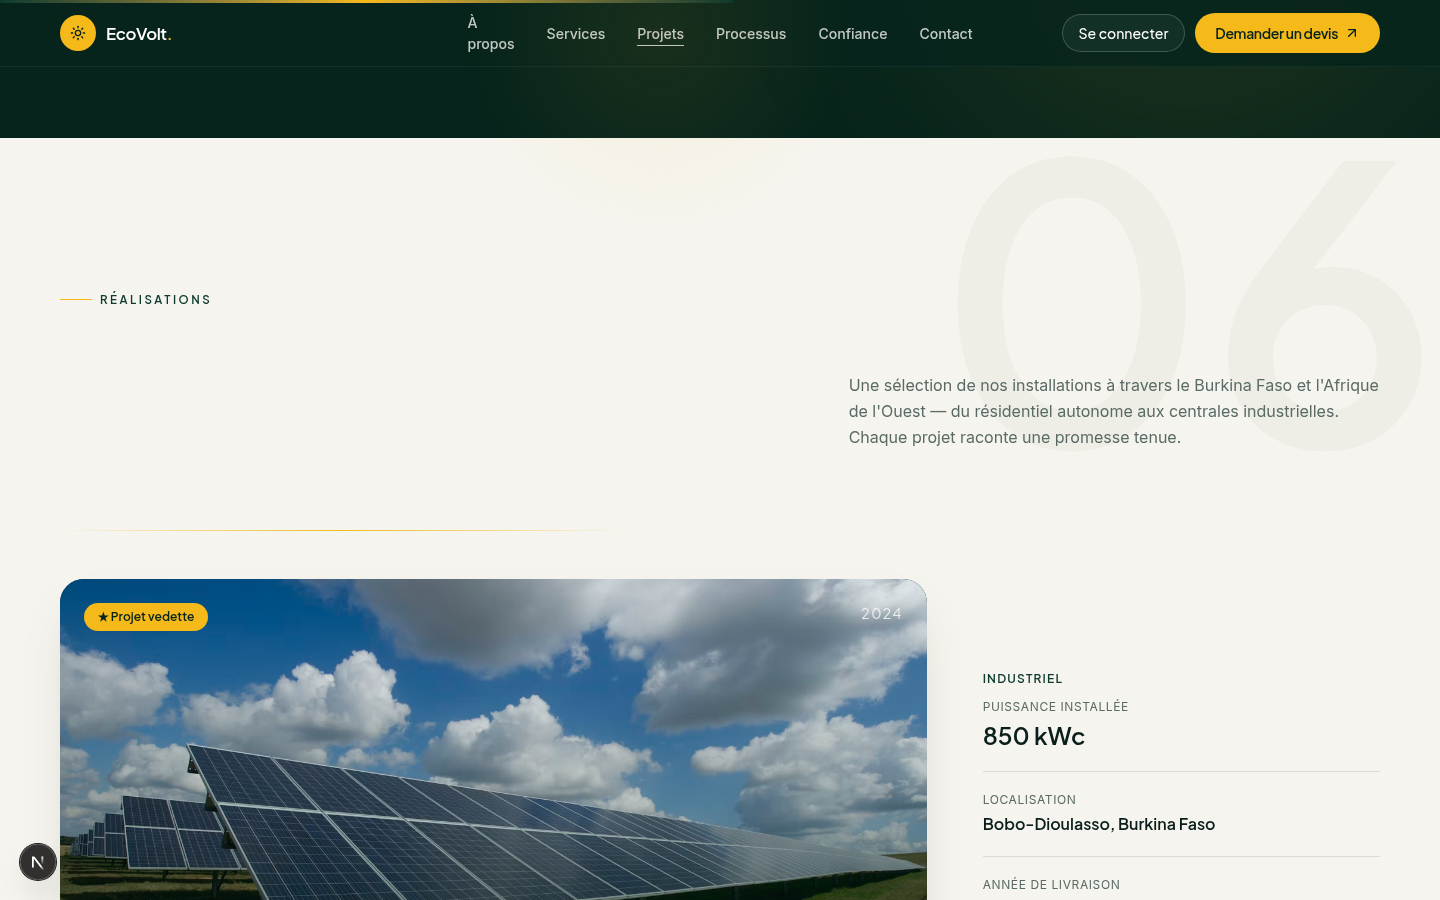
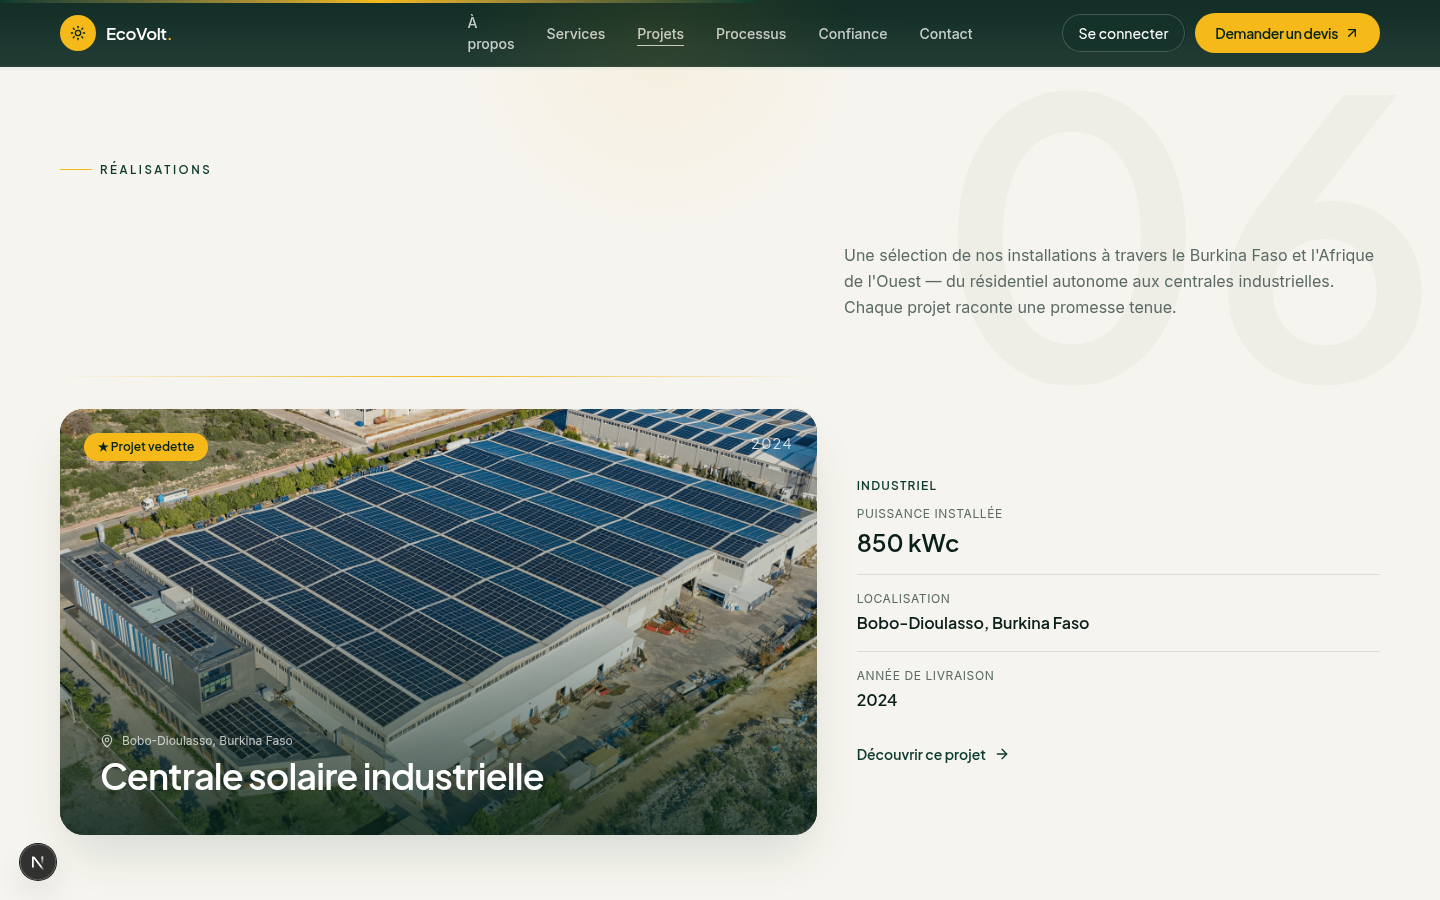
baa70442-70e9-4392-8e4a-528f8b8d5e24

diff --git a/src/components/site/about.tsx b/src/components/site/about.tsx
@@ -374,14 +374,7 @@ export function About() {
             <RevealLine text="Construire l'avenir" delay={0.3} />
             <RevealLine text="énergétique du Burkina" delay={0.4} />
             <RevealLine text="Faso grâce à" delay={0.5} />
-            <RevealLine text="l'" delay={0.6} className="inline" />
-            <RevealLine
-              text="énergie solaire"
-              delay={0.65}
-              className="inline italic font-light"
-              highlight="#D8A928"
-            />
-            <span>.</span>
+            <RevealLine text="à l'énergie solaire." delay={0.6} className="italic font-light" highlight="#D8A928" />
           </h2>
 
           {/* 3. Paragraphe 1 */}